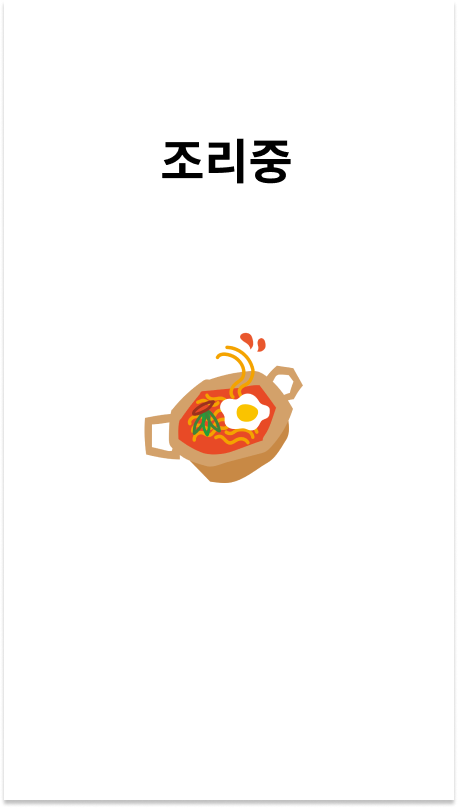
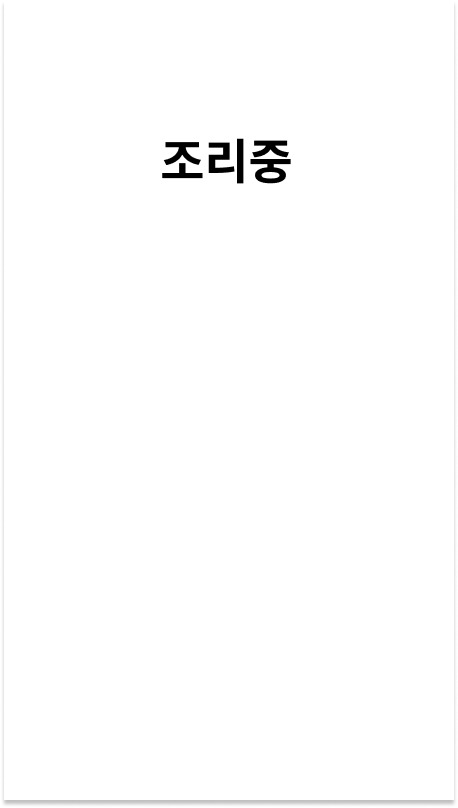
타이머에 이미지가 흘러가듯이 보이도록

Changed region(s): [[0.3057, 0.4022, 0.6725, 0.6188]]

diff --git a/JavaProject/src/frame/SuccessChargFrame.java b/JavaProject/src/frame/SuccessChargFrame.java
@@ -14,18 +14,12 @@ import components.KioskPanel;
 public class SuccessChargFrame extends KioskFrame implements Runnable{
 	
 	private JLabel label = new JLabel();
+	private boolean tValue = false;
 	
 	public SuccessChargFrame() {
 		//패널 생성
 		KioskPanel panel = new KioskPanel(getImage("Charge"));
 		add(panel);
-		
-		var startcookBtn = new KioskButton(100, 530, 250, 80, "startcook", "StartCookBtn");
-		startcookBtn.addActionListener(e -> {
-			new TimerFrame().setVisible(true);
-			this.dispose();
-		});
-		panel.add(startcookBtn);
 		
 		//시간 표시 
 		label.setFont(new Font("맑은 고딕", Font.BOLD, 20));
@@ -33,8 +27,17 @@ public class SuccessChargFrame extends KioskFrame implements Runnable{
 		label.setBounds(0,400,450,80);
 		panel.add(label);
 		
+		//멀티 스레드
 		Thread t = new Thread(this);
 		t.start();
+		
+		var startcookBtn = new KioskButton(100, 530, 250, 80, "startcook", "StartCookBtn");
+		startcookBtn.addActionListener(e -> {
+			new TimerFrame().setVisible(true);
+			tValue = true;
+			this.dispose();
+		});
+		panel.add(startcookBtn);
 	}//constructor
 
 	@Override
@@ -44,6 +47,8 @@ public class SuccessChargFrame extends KioskFrame implements Runnable{
 			try {
 				Thread.sleep(1000);
 				label.setText(sec--+"초 후 자동으로 시작합니다.");
+				
+				if ( tValue ) break;
 				
 				if( sec == 0) {
 					new TimerFrame().setVisible(true);

diff --git a/JavaProject/src/frame/TimerFrame.java b/JavaProject/src/frame/TimerFrame.java
@@ -24,6 +24,7 @@ import kiosk.Consumer;
 public class TimerFrame extends KioskFrame implements Runnable{
 
 	private JLabel label;
+	private JLabel imgLb = new JLabel(new ImageIcon(getImage("ramens")));
 	int sec = Consumer.getSecond();
 	
 	public TimerFrame() {
@@ -38,6 +39,11 @@ public class TimerFrame extends KioskFrame implements Runnable{
 		label.setBounds(100,200,250,80);
 		panel.add(label);
 		
+		//흘러가는 이미지
+		imgLb.setBounds(450, 300, 1600, 200);
+		panel.add(imgLb);
+		
+		//멀티스레드
 		Thread t1 = new Thread(this);
 		t1.start();
 		
@@ -50,6 +56,8 @@ public class TimerFrame extends KioskFrame implements Runnable{
 				Thread.sleep(1000);
 				--sec;
 				label.setText((sec/60)+" : "+(sec%60));
+				imgLb.setBounds(imgLb.getX()-20, 300, 1600, 200);
+				if ( imgLb.getX() == -1200) imgLb.setBounds(0, 300, 1600, 200);
 				
 				if( sec == 0) {
 					JOptionPane.showMessageDialog(null, "조리가 완료되었습니다! 맛있게드세요", "완료", JOptionPane.INFORMATION_MESSAGE, new ImageIcon(getImage("basic").getScaledInstance(60, 60, 4)));
